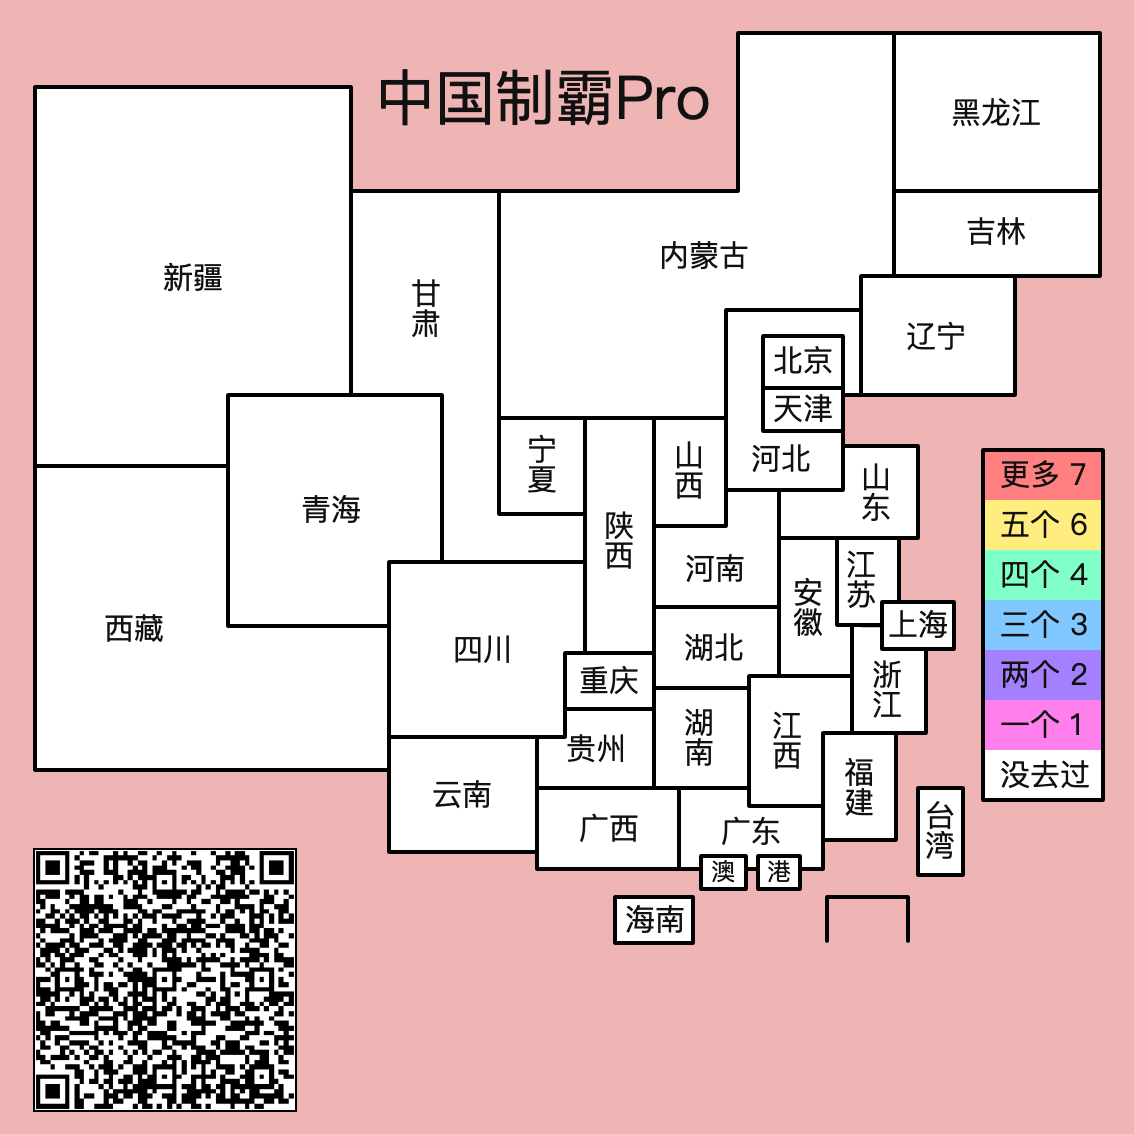
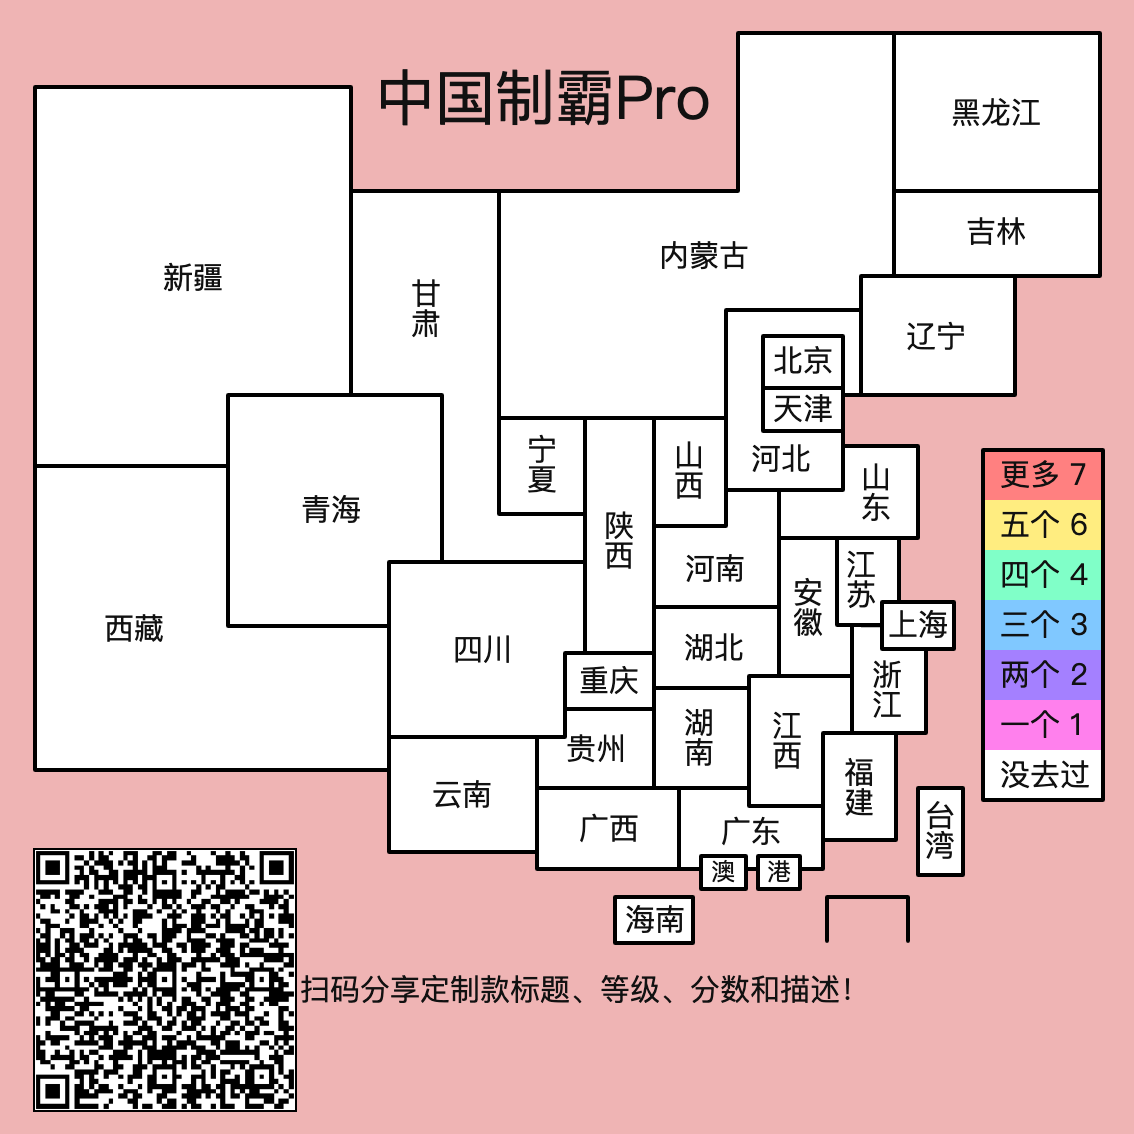
feat: add description to svg

Changed region(s): [[0.0309, 0.7407, 0.5864, 0.9877], [0.6173, 0.8642, 0.7407, 0.8951]]

diff --git a/html/index.html b/html/index.html
@@ -128,6 +128,7 @@ text{
 </g>
 <!-- <text x="37" y="937">神奇海螺试验场</text> -->
 <text id="分数" x="35" y="883">分数</text>
+<text id="描述" x="300" y="1000"></text>
 <g id="等级" >
 	<g id="等级图例"/>
 </g>
@@ -140,9 +141,6 @@ text{
 	<input />
 </div>
 <footer>
-	<div id="描述">
-		点击下方编辑和分享自定义标题、等级和分数和描述！
-	</div>
 	<a href="https://github.com/kf-liu/china-ex-pro" target="_blank">GITHUB</a>
 	<a href="https://twitter.com/KFChLiu" target="_blank">TWTR</a>
 	<a href="https://weibo.com/u/5717297833" target="_blank">WB</a>

diff --git a/html/edit/index.js b/html/edit/index.js
@@ -3,7 +3,7 @@ const 编辑弹窗样式 = 编辑弹窗.style;
 
 const 配置 = {
     标题: '中国制霸Pro',
-    描述: '点击下方编辑和分享自定义标题、等级和分数和描述！',
+    描述: '扫码分享定制款标题、等级、分数和描述！',
     等级与分数: 等级们.join(','),
 };
 

diff --git a/html/utils.js b/html/utils.js
@@ -64,7 +64,7 @@ async function createPoster(bgImageUrl, 是否模板) {
     ctx.fillRect(0, 0, 1134, 1134);
 
     // 背景图片
-    ctx.drawImage(bgImage, 0, 0, 1134, 976);
+    ctx.drawImage(bgImage, 0, 0, 1134, 1134);
     // 二维码
     ctx.lineJoin = "round";
     ctx.lineWidth = 3;

diff --git a/html/document.js b/html/document.js
@@ -122,7 +122,7 @@ let 等级样式 = '';
 let 二维码图片 = new Image();
 
 const 宽 = 1134;
-const 高 = 976;
+const 高 = 1134;
 const 比 = 2;
 
 const 画板 = 新建元素('canvas');
